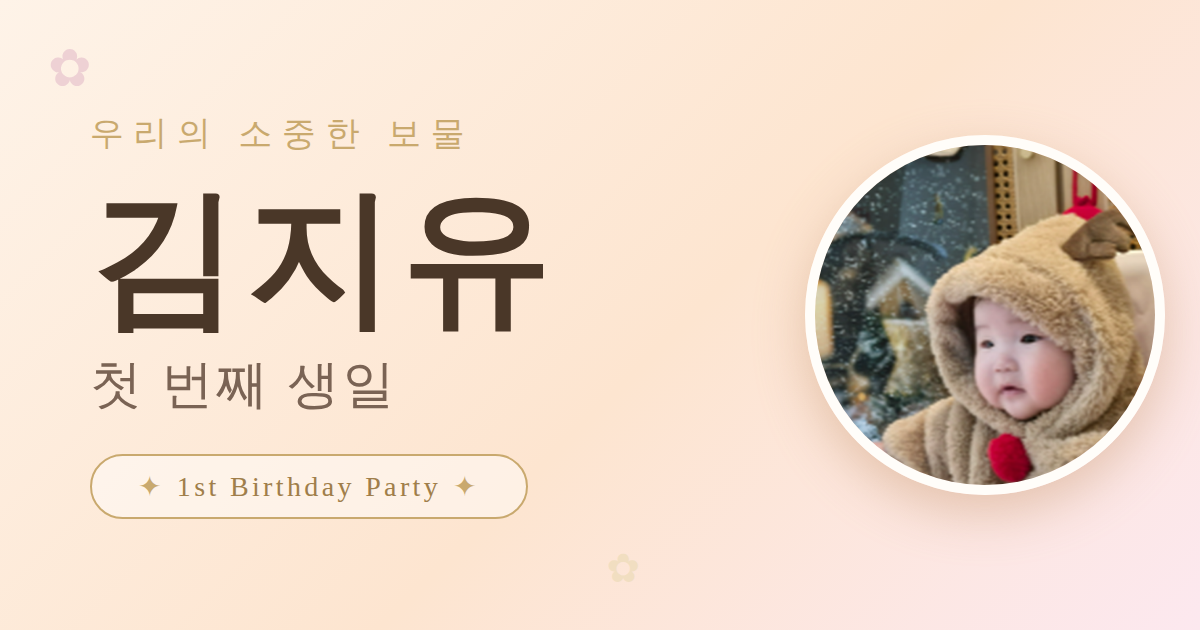
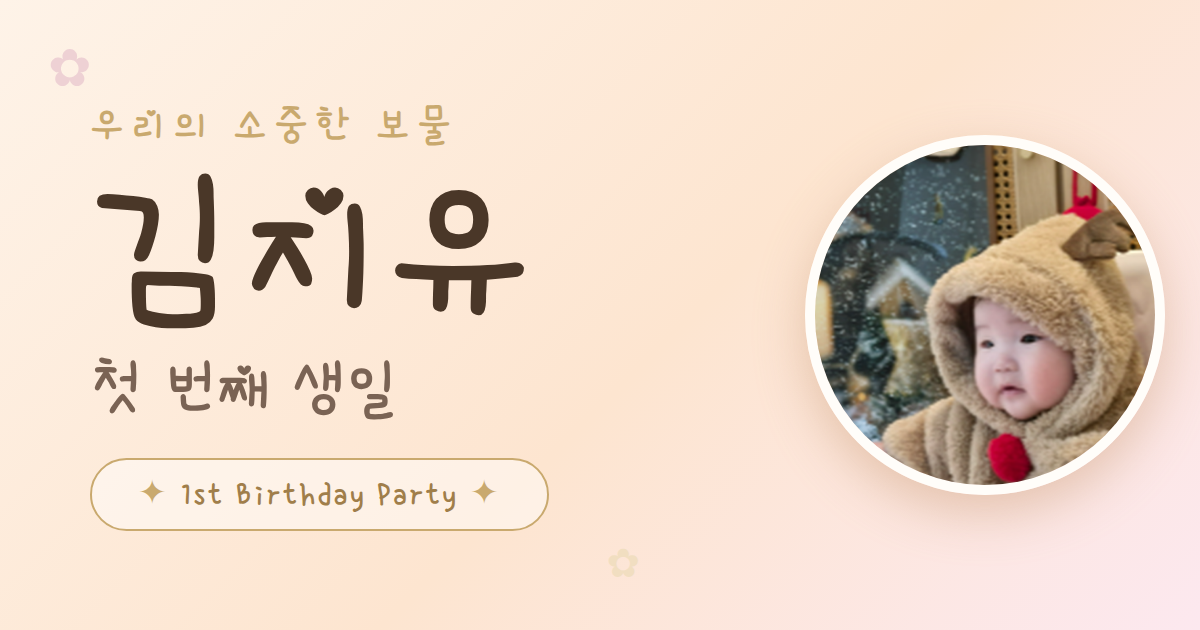
feat: 공유 카드 이미지 글씨체를 싱글데이로 변경
- OG 이미지를 싱글데이(동글 손글씨) 폰트로 재렌더링
- 캐시 무효화를 위해 og:image 버전 v2로 변경

Claude-Session: https://claude.ai/code/session_01ScujfNHB41LC28QRZ2Lwpm

diff --git a/index.html b/index.html
@@ -9,7 +9,7 @@
     <meta property="og:type" content="website">
     <meta property="og:title" content="김지유 첫 번째 생일잔치">
     <meta property="og:description" content="우리의 소중한 보물 김지유의 첫 번째 생일에 초대합니다 ♡ 2026. 8. 1 (토) 오후 12:30">
-    <meta property="og:image" content="https://seongjun0902.github.io/Jiyu-first-party/icons/og-image.png?v=1">
+    <meta property="og:image" content="https://seongjun0902.github.io/Jiyu-first-party/icons/og-image.png?v=2">
     <meta property="og:image:width" content="1200">
     <meta property="og:image:height" content="630">
     <meta property="og:url" content="https://seongjun0902.github.io/Jiyu-first-party/">
@@ -17,7 +17,7 @@
     <meta name="twitter:card" content="summary_large_image">
     <meta name="twitter:title" content="김지유 첫 번째 생일잔치">
     <meta name="twitter:description" content="우리의 소중한 보물 김지유의 첫 번째 생일에 초대합니다 ♡">
-    <meta name="twitter:image" content="https://seongjun0902.github.io/Jiyu-first-party/icons/og-image.png?v=1">
+    <meta name="twitter:image" content="https://seongjun0902.github.io/Jiyu-first-party/icons/og-image.png?v=2">
     <link rel="preconnect" href="https://fonts.googleapis.com">
     <link rel="preconnect" href="https://fonts.gstatic.com" crossorigin>
     <link rel="preconnect" href="https://www.gstatic.com">
